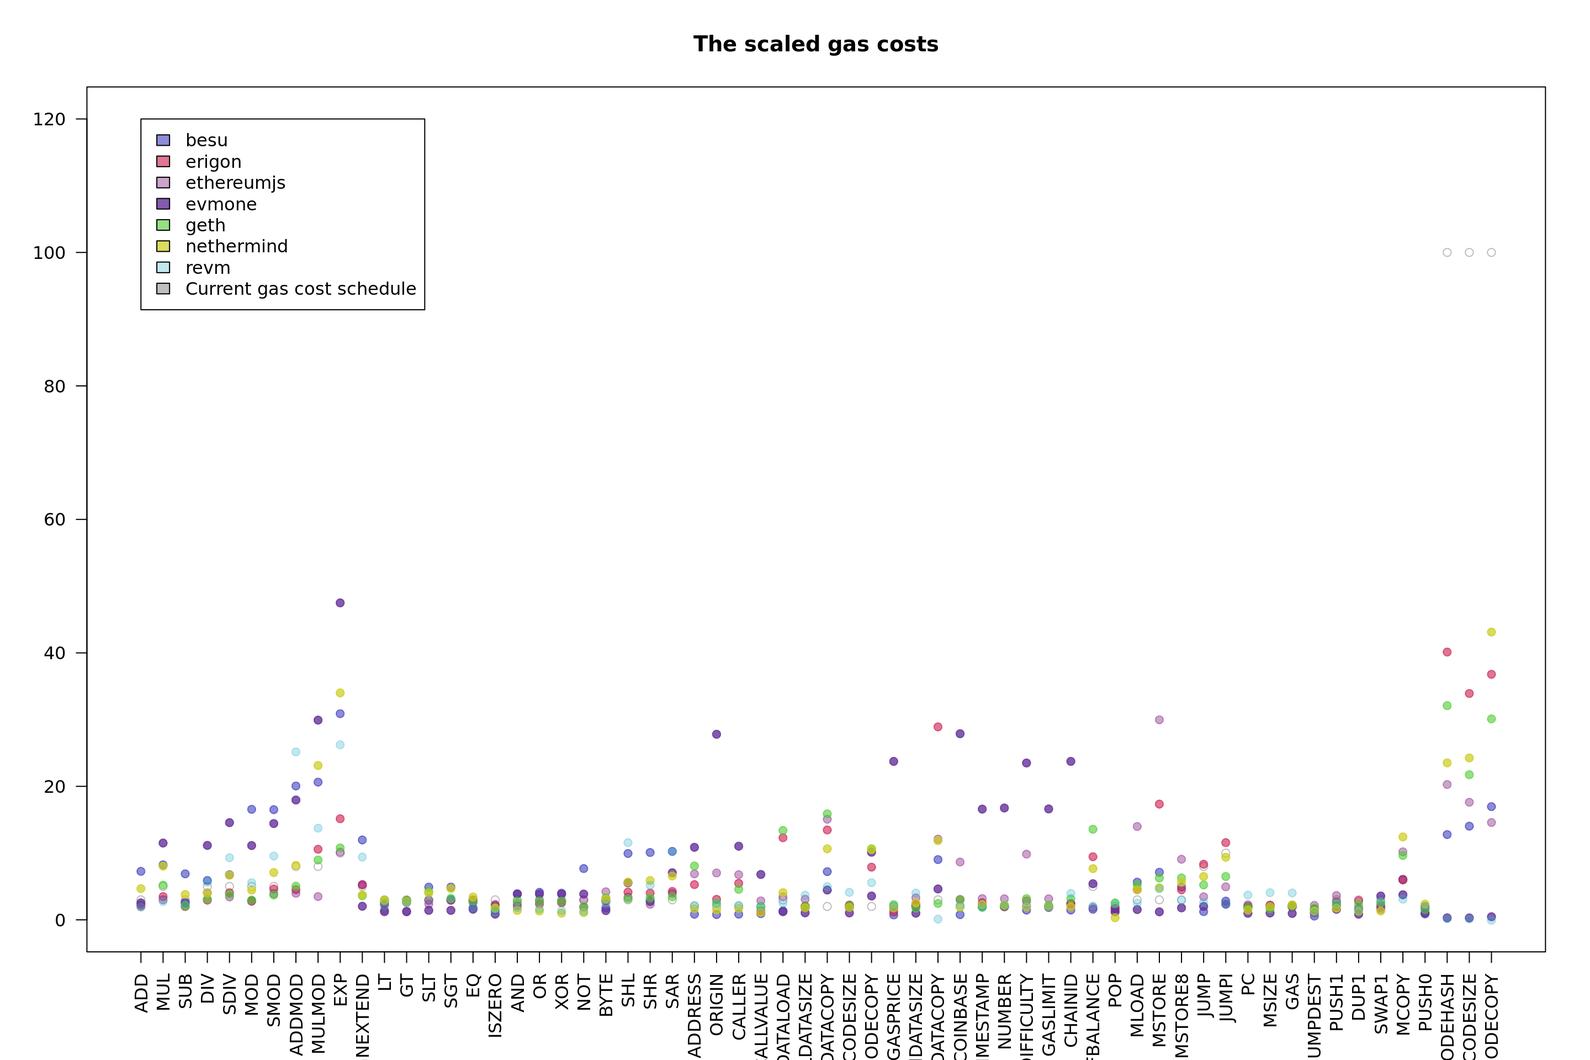
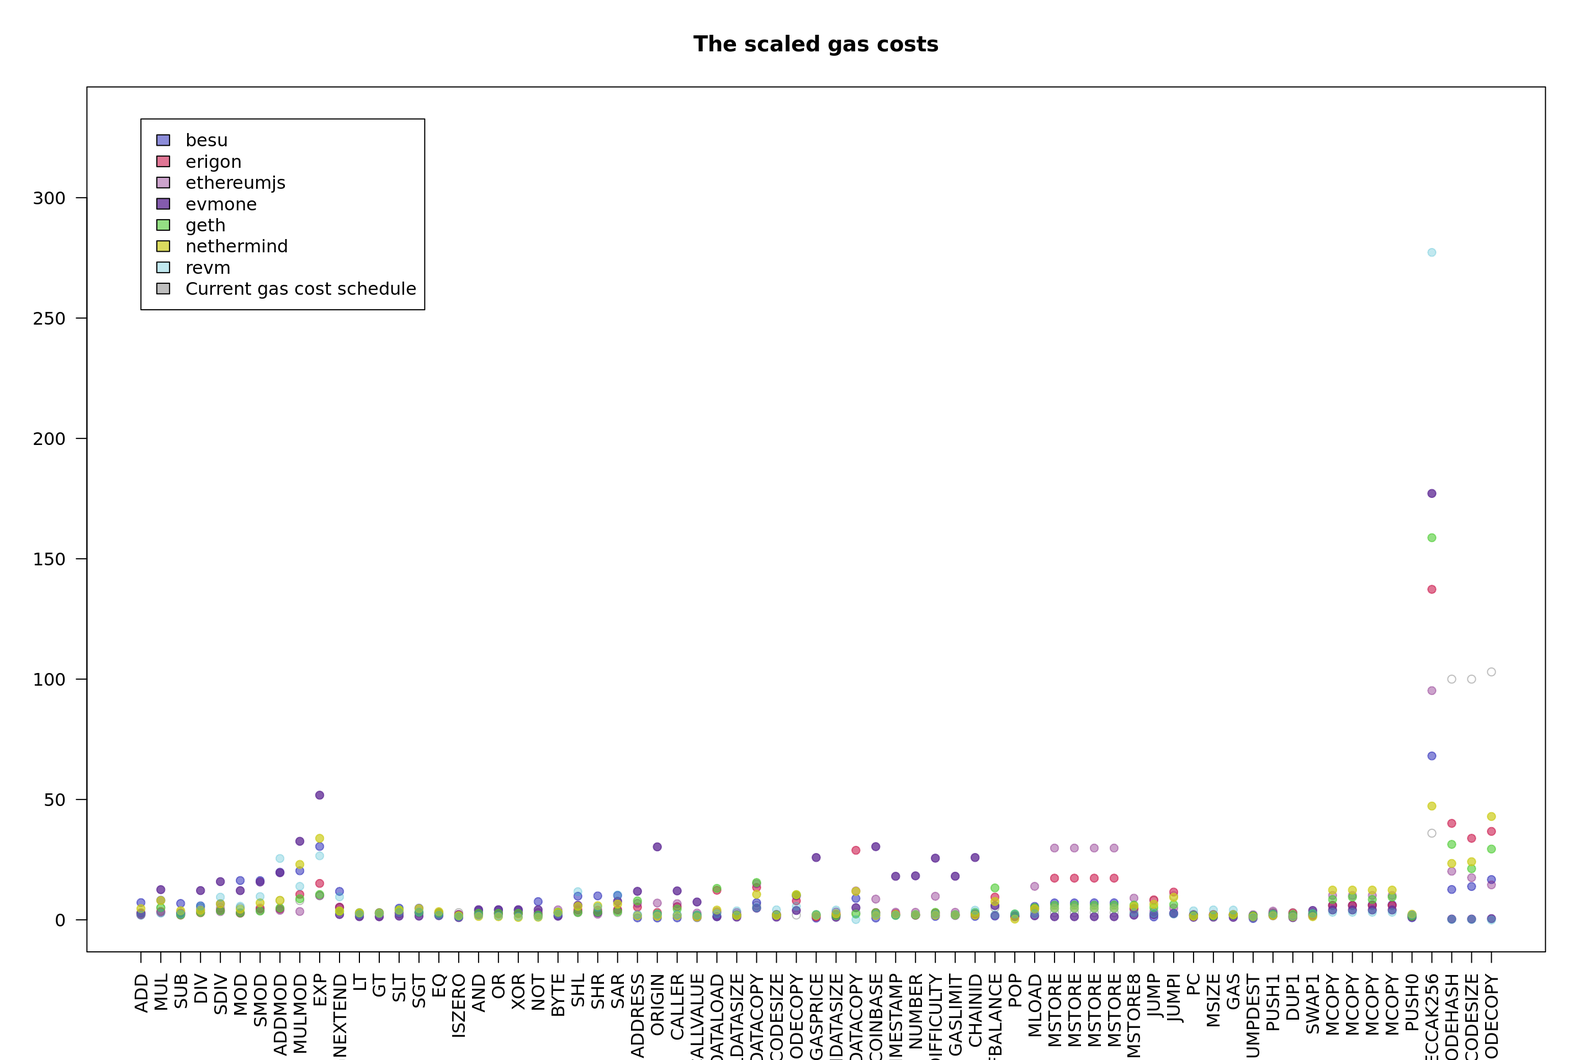
Update text

Changed region(s): [[0.0938, 0.9062, 0.9375, 1.0], [0.0625, 0.7188, 0.9375, 0.875], [0.1875, 0.7188, 0.2188, 0.75]]

diff --git a/docs/gas-schedule-proposal.md b/docs/gas-schedule-proposal.md
@@ -14,55 +14,56 @@ The idea behind the conservative gas schedule is to limit changes only to the mo
 
 The opcodes that are proposed to be changed are those that have been identified as mispriced in the research. 
 
-| OPCODE | Name | Current Gas | Proposed Gas |
+| Opcode | Name | Current Gas | Proposed Gas |
 | ------------- | ------------- | ------------- | ------------- |
-| 08 | MULMOD | 8 | 14 |
-| 0A | EXP | static_gas = 10 <br/> dynamic_gas = 50 * exponent_byte_size | static_gas = 10 <br/> dynamic_gas = 20 * exponent_byte_size |
-| 20 | KECCAK256 | static_gas = 30 <br/> dynamic_gas = 6 * minimum_word_size + memory_expansion_cost | static_gas = 50 <br/> dynamic_gas = 30 * minimum_word_size + memory_expansion_cost |
-| 30 | ADDRESS | 2 | 5 |
-| 33 | CALLER | 2 | 5 |
-| 37 | CALLDATACOPY | static_gas = 3 <br/> dynamic_gas = 3 * minimum_word_size + memory_expansion_cost | static_gas = 5 <br/> dynamic_gas = 3 * minimum_word_size + memory_expansion_cost |
-| 3E | RETURNDATACOPY | static_gas = 3 <br/> dynamic_gas = 3 * minimum_word_size + memory_expansion_cost | static_gas = 5 <br/> dynamic_gas = 3 * minimum_word_size + memory_expansion_cost |
-| 47 | SELFBALANCE | 5 | 3 |
-| 52 | MSTORE | static_gas = 3 <br/> dynamic_gas = memory_expansion_cost | static_gas = 5 <br/> dynamic_gas = memory_expansion_cost |
-| 53 | MSTORE8 | static_gas = 3 <br/> dynamic_gas = memory_expansion_cost | static_gas = 5 <br/> dynamic_gas = memory_expansion_cost |
-|  | POP | 2 | 1 |
-|  | PUSHx | 3 | 2 |
-|  | DUPx | 3 | 2 |
-|  | SWAPx | 3 | 2 |
+| 08 | MULMOD * | 8 | 14 |
+| 0A | EXP | 10 + 50 * exponent_byte_size | 10 + 20 * exponent_byte_size |
+| 20 | KECCAK256 * | 30 + 6 * minimum_word_size + memory_expansion_cost | 50 + 30 * minimum_word_size + memory_expansion_cost |
+| 30 | ADDRESS * | 2 | 5 |
+| 33 | CALLER * | 2 | 5 |
+| 37 | CALLDATACOPY * | 3 + 3 * minimum_word_size + memory_expansion_cost | 5 + 3 * minimum_word_size + memory_expansion_cost |
+| 39 | CODECOPY * | 3 + 3 * minimum_word_size + memory_expansion_cost | 5 + 3 * minimum_word_size + memory_expansion_cost |
+| 3E | RETURNDATACOPY * | 3 + 3 * minimum_word_size + memory_expansion_cost | 5 + 3 * minimum_word_size + memory_expansion_cost |
+| 52 | MSTORE * | 3 + memory_expansion_cost | 5 + memory_expansion_cost |
+| 53 | MSTORE8 * | 3 + memory_expansion_cost | 5 + memory_expansion_cost |
+| 60 - 7F | PUSHx | 3 | 2 |
+| 80 - 8F | DUPx | 3 | 2 |
+| 90 - 9F | SWAPx | 3 | 2 |
 | 56 | JUMP | 8 | 3 |
 | 57 | JUMPI | 10 | 5 |
 | 5C | TLOAD | 100 | 20 |
 | 5D | TSTORE | 100 | 50 |
-| A0 | LOG0 | static_gas = 375 <br/> dynamic_gas = 375 * topic_count + 8 * size + memory_expansion_cost | static_gas = 35 <br/> dynamic_gas = 35 * topic_count + 8 * size + memory_expansion_cost |
-| A1 | LOG1 | static_gas = 375 <br/> dynamic_gas = 375 * topic_count + 8 * size + memory_expansion_cost | static_gas = 35 <br/> dynamic_gas = 35 * topic_count + 8 * size + memory_expansion_cost |
-| A2 | LOG2 | static_gas = 375 <br/> dynamic_gas = 375 * topic_count + 8 * size + memory_expansion_cost | static_gas = 35 <br/> dynamic_gas = 35 * topic_count + 8 * size + memory_expansion_cost |
-| A3 | LOG3 | static_gas = 375 <br/> dynamic_gas = 375 * topic_count + 8 * size + memory_expansion_cost | static_gas = 35 <br/> dynamic_gas = 35 * topic_count + 8 * size + memory_expansion_cost |
-| A4 | LOG4 | static_gas = 375 <br/> dynamic_gas = 375 * topic_count + 8 * size + memory_expansion_cost | static_gas = 35 <br/> dynamic_gas = 35 * topic_count + 8 * size + memory_expansion_cost |
-| F1 | CALL | address_access_cost = 100 (warm address) | address_access_cost = 150 (warm address) |
-| F4 | DELEGATECALL | address_access_cost = 100 (warm address) | address_access_cost = 150 (warm address) |
-| FA | STATICCALL | address_access_cost = 100 (warm address) | address_access_cost = 150 (warm address) |
-| F3 | RETURN | static_gas = 0 <br/> dynamic_gas = memory_expansion_cost | static_gas = 5 <br/>dynamic_gas = memory_expansion_cost |
-| FD | REVERT | static_gas = 0 <br/> dynamic_gas = memory_expansion_cost | static_gas = 8 <br/>dynamic_gas = memory_expansion_cost |
+| A0 | LOG0 | 375 + 375 * topic_count + 8 * data_size + memory_expansion_cost | 35 + 35 * topic_count + 8 * data_size + memory_expansion_cost |
+| A1 | LOG1 | 375 + 375 * topic_count + 8 * data_size + memory_expansion_cost | 35 + 35 * topic_count + 8 * data_size + memory_expansion_cost |
+| A2 | LOG2 | 375 + 375 * topic_count + 8 * data_size + memory_expansion_cost | 35 + 35 * topic_count + 8 * data_size + memory_expansion_cost |
+| A3 | LOG3 | 375 + 375 * topic_count + 8 * data_size + memory_expansion_cost | 35 + 35 * topic_count + 8 * data_size + memory_expansion_cost |
+| A4 | LOG4 | 375 + 375 * topic_count + 8 * data_size + memory_expansion_cost | 35 + 35 * topic_count + 8 * data_size + memory_expansion_cost |
+| F1 | CALL * | address_access_cost: 100 (warm) / 2600 (cold) | address_access_cost: 150 (warm) / 2600 (cold) |
+| F4 | DELEGATECALL * | address_access_cost: 100 (warm) / 2600 (cold) | address_access_cost: 150 (warm) / 2600 (cold) |
+| FA | STATICCALL * | address_access_cost: 100 (warm) / 2600 (cold) | address_access_cost: 150 (warm) / 2600 (cold) |
+| F3 | RETURN * | 0 + memory_expansion_cost | 5 + memory_expansion_cost |
+| FD | REVERT * | 0 + memory_expansion_cost | 8 + memory_expansion_cost |
 
 | Precompile | Name | Current Gas | Proposed Gas |
 | ------------- | ------------- | ------------- | ------------- |
-| 01 | ECRECOVER | 3000 | 12000 |
-| 06 | ECADD | 150 | 3000 |
-| 07 | ECMUL | 6000 | 10000 |
-| 0A | POINTEVAL | 50000 | 300000 |
+| 01 | ECRECOVER * | 3000 | 12000 |
+| 06 | ECADD * | 150 | 3000 |
+| 07 | ECMUL * | 6000 | 10000 |
+| 0A | POINTEVAL * | 50000 | 300000 |
 
-In above calculations the `memory_expansion_cost` is calculated as `3 * memory_word_count`. The `topic_count` is the number of topics in the log operation and `size` is the size of the data in the log operation.
+> The * indicates increased gas cost for the given opcode of precompile. This should be implemented with caution as it might break backwards compatibility.
+
+The current cost for the `memory_expansion_cost` is calculated as `quadratical_cost + 3 * memory_word_count`. We propose to change it to `quadratical_cost + 2 * memory_word_count` as the results indicate that memory expansion costs are quite low.
 
 ## Radical Gas Schedule Proposal
 The idea behind the radical gas schedule proposal is a complete overhaul of the current gas schedule. Rather than just changing the most mispriced opcodes, we propose to change all opcodes to better reflect the computational cost of the operations.
 
 Let's run through the consequences of the radical gas schedule proposal. The cheapest operations are priced at 1 gas and we gradually increase the gas cost for more complex operations. As a result most arithmetic and basic opcodes will be much cheaper, i.e. valued at 1 rather than 3 or 5. Then all other operations will be adjusted accordingly, usually by lowering the gas cost. This matches some of the [sentiments](https://x.com/VitalikButerin/status/1849338545498210652) in the community.
 
-> Client Implementation notes:
-> In most implementations gas cost is hardcoded. Such radical changes to the gas schedule would require a configurable gas schedule in EVM clients. This would allow clients to easily switch between different gas schedules, but also different chains.
+> Client Implementation notes: <br/>
+> Such radical change to the gas schedule would require a fully configurable gas schedule in EVM clients. This would allow clients to easily switch between different gas schedules, but also different chains.
 
-In this scenario the storage cost remains at the same level as this refects the network cost of storing data. Thus the radical gas schedule proposal expands the gap between the cost of storage and computation. This is a good thing as it makes it more expensive to store data than to compute it. Also the memory expansion cost remains the same to increase the security of the network.
+In this scenario the storage cost remains at the same level as this refects the network cost of storing data. Thus the radical gas schedule proposal expands the gap between the cost of storage and computation. This is a good thing as it makes it more expensive to store data than to compute it. The memory expansion cost is lowered, but still keeps its characteristic of being quadratic, thus improving network security.
 
 Pros:
 - The gas cost reflects the computational cost of the operations
@@ -74,102 +75,112 @@ Cons:
 - EVM Clients need to implement configurable gas schedules
 - The radical changes may have unforeseen consequences
 
-| OPCODE | Name | Current Gas | Proposed Gas |
+The radical gas schedule was created by taking the calculated gas costs from the research and rescaling them. The rescale factor is the key to achieve the desired effect. For this purpose we took an average of the basic arthmetic opcodes. In this proposal the rescale factor is `1/4.6 = 0.217391304`.
+
+The tables below contain the additional Rescaled Fractional column. This shows the actual gas cost of the opcode after rescaling. It could be usefull to for futher discussion on the proposed Fractional Gas Costs schedule.
+
+
+| Opcode | Name | Current Gas | Rescaled Fractional | Proposed Gas |
+| ------------- | ------------- | -------------: | -------------: | -------------: |
+| 01 | ADD | 3 | 0.5 | 1 |
+| 02 | MUL | 5 | 1.1 | 1 |
+| 03 | SUB | 3 | 0.6 | 1 |
+| 04 | DIV | 5 | 0.9 | 1 |
+| 05 | SDIV | 5 | 1.4 | 1 |
+| 06 | MOD | 5 | 1.0 | 1 |
+| 07 | SMOD | 5 | 1.5 | 1 |
+| 08 | ADDMOD | 8 | 1.8 | 2 |
+| 09 | MULMOD | 8 | 3.0 | 3 |
+| 0A | EXP | 10 + 50 * exponent_byte_size |  | 2 + 4 * exponent_byte_size |
+| 0B | SIGNEXTEND | 5 | 1.1 | 1 |
+| 10 | LT | 3 | 0.5 | 1 |
+| 11 | GT | 3 | 0.6 | 1 |
+| 12 | SLT | 3 | 0.7 | 1 |
+| 13 | SGT | 3 | 0.7 | 1 |
+| 14 | EQ | 3 | 0.6 | 1 |
+| 15 | ISZERO | 3 | 0.4 | 1 |
+| 16 | AND | 3 | 0.5 | 1 |
+| 17 | OR | 3 | 0.6 | 1 |
+| 18 | XOR | 3 | 0.6 | 1 |
+| 19 | NOT | 3 | 0.4 | 1 |
+| 1A | BYTE | 3 | 0.6 | 1 |
+| 1B | SHL | 3 | 1.2 | 1 |
+| 1C | SHR | 3 | 0.9 | 1 |
+| 1D | SAR | 3 | 1.4 | 1 |
+| 20 | KECCAK256 | 30 + 6 * data_word_size + memory_expansion_cost |  | 10 + 6 * data_word_size + memory_expansion_cost |
+| 30 | ADDRESS | 2 | 1.1 | 1 |
+| 32 | ORIGIN | 2 | 0.5 | 1 |
+| 33 | CALLER | 2 | 1.0 | 1 |
+| 34 | CALLVALUE | 2 | 0.4 | 1 |
+| 35 | CALLDATALOAD | 3 | 0.7 | 1 |
+| 36 | CALLDATASIZE | 2 | 0.4 | 1 |
+| 37 | CALLDATACOPY | 3 + 3 * data_word_size + memory_expansion_cost |  | 1 + 1 * data_word_size + memory_expansion_cost |
+| 38 | CODESIZE | 2 | 0.5 | 1 |
+| 39 | CODECOPY | 3 + 3 * data_word_size + memory_expansion_cost |  | 1 + 1 * data_word_size + memory_expansion_cost |
+| 3A | GASPRICE | 2 | 0.4 | 1 |
+| 3B | EXTCODESIZE | address_access_cost |  | address_access_cost |
+| 3C | EXTCODECOPY | 0 + 3 * data_word_size + memory_expansion_cost + address_access_cost |  | 0 + 1 * data_word_size + memory_expansion_cost + address_access_cost |
+| 3D | RETURNDATASIZE | 2 | 0.5 | 1 |
+| 3E | RETURNDATACOPY | 3 + 3 * data_word_size + memory_expansion_cost |  | 1 + 1 * data_word_size + memory_expansion_cost |
+| 3F | EXTCODEHASH | address_access_cost |  | address_access_cost |
+| 41 | COINBASE | 2 | 0.6 | 1 |
+| 42 | TIMESTAMP | 2 | 0.5 | 1 |
+| 43 | NUMBER | 2 | 0.5 | 1 |
+| 45 | GASLIMIT | 2 | 0.4 | 1 |
+| 46 | CHAINID | 2 | 0.5 | 1 |
+| 47 | SELFBALANCE | 5 | 1.3 | 1 |
+| 50 | POP | 2 | 0.4 | 1 |
+| 51 | MLOAD | 3 | 1.0 | 1 |
+| 52 | MSTORE | 3 + memory_expansion_cost |  | 1 + memory_expansion_cost |
+| 53 | MSTORE8 | 3 + memory_expansion_cost |  | 1 + memory_expansion_cost |
+| 56 | JUMP | 8 | 0.7 | 1 |
+| 57 | JUMPI | 10 | 1.1 | 1 |
+| 58 | PC | 2 | 0.4 | 1 |
+| 59 | MSIZE | 2 | 0.4 | 1 |
+| 5A | GAS | 2 | 0.4 | 1 |
+| 5C | TLOAD | 100 | 4.1 | 4 |
+| 5D | TSTORE | 100 | 10.0 | 10 |
+| 5B | JUMPDEST | 1 | 0.3 | 1 |
+| 5E | MCOPY | 3 + 3 * data_word_size + memory_expansion_cost |  | 1 + 1 * data_word_size + memory_expansion_cost |
+| 5F | PUSH0 | 2 | 0.4 | 1 |
+| 60 - 7F | PUSHx | 3 | 0.5 | 1 |
+| 80 - 8F | DUPx | 3 | 0.3 | 1 |
+| 90 - 9F | SWAPx | 3 | 0.5 | 1 |
+| A0 | LOG0 | 375 + 375 * topic_count + 8 * data_size + memory_expansion_cost |  | 7 + 7 * topic_count + 8 * data_size + memory_expansion_cost |
+| A1 | LOG1 | 375 + 375 * topic_count + 8 * data_size + memory_expansion_cost |  | 7 + 7 * topic_count + 8 * data_size + memory_expansion_cost |
+| A2 | LOG2 | 375 + 375 * topic_count + 8 * data_size + memory_expansion_cost |  | 7 + 7 * topic_count + 8 * data_size + memory_expansion_cost |
+| A3 | LOG3 | 375 + 375 * topic_count + 8 * data_size + memory_expansion_cost |  | 7 + 7 * topic_count + 8 * data_size + memory_expansion_cost |
+| A4 | LOG4 | 375 + 375 * topic_count + 8 * data_size + memory_expansion_cost |  | 7 + 7 * topic_count + 8 * data_size + memory_expansion_cost |
+| F0 | CREATE | 32000 + 2 * data_word_size + memory_expansion_cost + deployment_code_execution_cost + 200 * deployed_code_size |  | 32000 + 1 * data_word_size + memory_expansion_cost + deployment_code_execution_cost + 40 * deployed_code_size |
+| F5 | CREATE2 | 32000 + 2 * data_word_size + 6 * data_word_size + memory_expansion_cost + deployment_code_execution_cost + 200 * deployed_code_size |  | 32000 + 1 * data_word_size + 1 * data_word_size + memory_expansion_cost + deployment_code_execution_cost + 40 * deployed_code_size |
+| F1 | CALL | 0 + memory_expansion_cost + code_execution_cost + address_access_cost + positive_value_cost + value_to_empty_account_cost |  | 0 + memory_expansion_cost + code_execution_cost + address_access_cost + positive_value_cost + value_to_empty_account_cost |
+| FA | STATICCALL | 0 + memory_expansion_cost + code_execution_cost + address_access_cost |  | 0 + memory_expansion_cost + code_execution_cost + address_access_cost |
+| F4 | DELEGATECALL | 0 + memory_expansion_cost + code_execution_cost + address_access_cost |  | 0 + memory_expansion_cost + code_execution_cost + address_access_cost |
+| F3 | RETURN ¹ | 0 + memory_expansion_cost |  | 0 + memory_expansion_cost |
+| FD | REVERT ² | 0 + memory_expansion_cost |  | 0 + memory_expansion_cost |
+
+> ¹ The calculated gas costs for RETURN is `1 + memory_expansion_cost`. To avoid price increase this is kept at the current level and needs to be subsidized by the network. <br/>
+> ² The calculated gas costs for REVERT is `2 + memory_expansion_cost`. To avoid price increase this is kept at the current level and needs to be subsidized by the network.<br/>
+
+| Precompile | Name | Current Gas | Rescaled Fractional | Proposed Gas |
+| ------------- | ------------- | -------------: | -------------: | -------------: |
+| 01 | ECRECOVER ³ | 3000 | 3246.7 | 3000 |
+| 02 | SHA2-256 | 60 + 12 * data_word_size |  | 10 + 4 * data_word_size |
+| 03 | RIPEMD-160 | 600 + 120 * data_word_size |  | 60 + 40 * data_word_size |
+| 04 | IDENTITY | 15 + 3 * data_word_size |  | 15 + 3 * data_word_size |
+| 05 | MODEXP | 0 + max(200, complexity_cost) |  | 0 + max(70, complexity_cost) |
+| 06 | ECADD ³ | 150 | 694.6 | 150 |
+| 07 | ECMUL | 6000 | 2677.7 | 2700 |
+| 08 | ECPAIRING | 45000 + 34000 * sets_count |  | 8000 + 7000 * sets_count |
+| 09 | BLAKE2F | 0 + 1 * rounds_count |  | 0 + 1 * rounds_count |
+| 0A | POINTEVAL | 50000 | 21242.8 | 21000 |
+
+> ³ The proposed gas is subsidized by the network to keep the cost at the current level.
+
+Also, the following elements of the dynamic gas cost have been adjusted:
+
+| Element | Current | Proposed | Notes |
 | ------------- | ------------- | ------------- | ------------- |
-|  | ADD | 3 | 1 |
-|  | MUL | 5 | 1 |
-|  | SUB | 3 | 1 |
-|  | DIV | 5 | 1 |
-|  | SDIV | 5 | 2 |
-|  | MOD | 5 | 1 |
-|  | SMOD | 5 | 2 |
-|  | ADDMOD | 8 | 2 |
-|  | MULMOD | 8 | 4 |
-|  | EXP | static_gas = 10 <br/> dynamic_gas = 50 * exponent_byte_size | static_gas = 3 <br/> dynamic_gas = 5 * exponent_byte_size |
-|  | SIGNEXTEND | 5 | 2 |
-|  | LT | 3 | 1 |
-|  | GT | 3 | 1 |
-|  | SLT | 3 | 1 |
-|  | SGT | 3 | 1 |
-|  | EQ | 3 | 1 |
-|  | ISZERO | 3 | 1 |
-|  | AND | 3 | 1 |
-|  | OR | 3 | 1 |
-|  | XOR | 3 | 1 |
-|  | NOT | 3 | 1 |
-|  | BYTE | 3 | 1 |
-|  | SHL | 3 | 2 |
-|  | SHR | 3 | 1 |
-|  | SAR | 3 | 2 |
-|  | ADDRESS | 2 | 2 |
-|  | ORIGIN | 2 | 1 |
-|  | CALLER | 2 | 1 |
-|  | CALLVALUE | 2 | 1 |
-|  | CALLDATALOAD | 3 | 1 |
-|  | CALLDATASIZE | 2 | 1 |
-|  | CALLDATACOPY | 2 | 3 |
-|  | CODESIZE | 2 | 1 |
-|  | CODECOPY | 2 | 3 |
-|  | GASPRICE | 2 | 1 |
-|  | RETURNDATASIZE | 2 | 1 |
-|  | RETURNDATACOPY | 3 | 3 |
-|  | COINBASE | 2 | 1 |
-|  | TIMESTAMP | 2 | 1 |
-|  | NUMBER | 2 | 1 |
-|  | DIFFICULTY | 2 | 1 |
-|  | GASLIMIT | 2 | 1 |
-|  | CHAINID | 2 | 1 |
-|  | SELFBALANCE | 5 | 1 |
-|  | POP | 2 | 1 |
-|  | MLOAD | 3 | 1 |
-|  | MSTORE | 3 | 2 |
-|  | MSTORE_COLD | 3 | 3 |
-|  | MSTORE8 | 3 | 1 |
-|  | JUMP | 8 | 1 |
-|  | JUMPI | 10 | 1 |
-|  | PC | 2 | 1 |
-|  | MSIZE | 2 | 1 |
-|  | GAS | 2 | 1 |
-|  | JUMPDEST | 1 | 1 |
-|  | PUSHx | 3 | 1 |
-|  | DUPx | 3 | 1 |
-|  | SWAPx | 3 | 1 |
-|  | MCOPY | 6 | 2 |
-|  | MCOPY_COLD | 6 | 2 |
-|  | PUSH0 | 2 | 1 |
-|  | KECCAK256 | static_gas = 30 <br/> dynamic_gas = 6 * minimum_word_size + memory_expansion_cost | static_gas = 30 <br/> dynamic_gas = 6 * minimum_word_size + memory_expansion_cost |
-|  | LOG0 | static_gas = 375 <br/> dynamic_gas = 375 * topic_count + 8 * size + memory_expansion_cost | static_gas = 10 <br/> dynamic_gas = 5 * topic_count + 3 * size + memory_expansion_cost |
-|  | LOG1 | static_gas = 375 <br/> dynamic_gas = 375 * topic_count + 8 * size + memory_expansion_cost | static_gas = 10 <br/> dynamic_gas = 5 * topic_count + 3 * size + memory_expansion_cost |
-|  | LOG2 | static_gas = 375 <br/> dynamic_gas = 375 * topic_count + 8 * size + memory_expansion_cost | static_gas = 10 <br/> dynamic_gas = 5 * topic_count + 3 * size + memory_expansion_cost |
-|  | LOG3 | static_gas = 375 <br/> dynamic_gas = 375 * topic_count + 8 * size + memory_expansion_cost | static_gas = 10 <br/> dynamic_gas = 5 * topic_count + 3 * size + memory_expansion_cost |
-|  | LOG4 | static_gas = 375 <br/> dynamic_gas = 375 * topic_count + 8 * size + memory_expansion_cost | static_gas = 10 <br/> dynamic_gas = 5 * topic_count + 3 * size + memory_expansion_cost |
-|  | EXTCODEHASH | 100 | 6 |
-|  | EXTCODESIZE | 100 | 5 |
-|  | EXTCODECOPY | 100 | 5 |
-|  | CREATE | 32000 | 182 |
-|  | CALL | address_access_cost = 100 (warm address) | address_access_cost = 50 (warm address) |
-|  | STATICCALL | address_access_cost = 100 (warm address) | address_access_cost = 50 (warm address) |
-|  | DELEGATECALL | address_access_cost = 100 (warm address) | address_access_cost = 50 (warm address) |
-|  | RETURN | static_gas = 0 <br/> dynamic_gas = memory_expansion_cost | static_gas = 2 <br/> dynamic_gas = memory_expansion_cost |
-|  | REVERT | static_gas = 0 <br/> dynamic_gas = memory_expansion_cost | static_gas = 3 <br/> dynamic_gas = memory_expansion_cost |
-|  | TLOAD | 100 | 5 |
-|  | TSTORE | 100 | 7 |
-
-| Precompile | Name | Current Gas | Proposed Gas |
-| ------------- | ------------- | ------------- | ------------- |
-|  | ECRECOVER | 3000 | 4382 |
-|  | SHA2-256 | 72 | 40 |
-|  | RIPEMD-160 | 720 | 71 |
-|  | IDENTITY | 18 | 33 |
-|  | MODEXP | 200 | 110 |
-|  | ECADD | 150 | 937 |
-|  | ECMUL | 6000 | 3060 |
-|  | ECPAIRING79000 | 79000 | 21362 |
-|  | ECPAIRING113000 | 113000 | 31213 |
-|  | ECPAIRING181000 | 181000 | 50909 |
-|  | ECPAIRING317000 | 317000 | 89881 |
-|  | BLAKE2F | 12 | 51 |
-|  | POINTEVAL | 50000 | 101109 |
-
-In above calculations the `memory_expansion_cost` is calculated as `1 * memory_word_count`. The `topic_count` is the number of topics in the log operation and `size` is the size of the data in the log operation. The rescale factor is 0.5/1.704212172, based on the least expensive, non-trivial opcode `ISZERO`.
-
+| memory_expansion_cost | (memory_size_word ** 2) / 512 + (3 * memory_size_word) | (memory_size_word ** 2) / 512  | This means that the first 22 words of memory are free. Then the cost grows quadratically. |
+| address_access_cost | 100 (warm) \| 2600 (cold) | 5 (warm) \| 2600 (cold) |  |
+| MODEXP complexity_cost | multiplication_complexity * calculate_iteration_count / 3 |  multiplication_complexity * calculate_iteration_count / 30 | This is optional, due to the relatively low popularity of the MODEXP precompile. |

diff --git a/docs/report_stage_iv.md b/docs/report_stage_iv.md
@@ -12,12 +12,12 @@ This project continues the previous stages of the Gas Cost Estimator. Please vis
 ### EVM Implementaions
 The following EVM implementations have been included in the research:
 - [EvmOne](https://github.com/JacekGlen/evmone), version 0.13.0, commit [492e513](https://github.com/JacekGlen/evmone/commit/492e513a7d1cd905c6c45cf17d830fc8dc13288b)
-- [Go Ethereum](https://github.com/ethereum/go-ethereum), version  Rayingri (v1.14.8)
+- [Go Ethereum](https://github.com/ethereum/go-ethereum), version  Rayingri (v1.14.12)
 , commit [a9523b6](https://github.com/ethereum/go-ethereum/commit/a9523b6428238a762e1a1e55e46ead47630c3a23)
-- [Erigon](https://github.com/erigontech/erigon), version 2.60.6, commit [d24e5d4](https://github.com/erigontech/erigon/commit/d24e5d45755d7b23075c507ad9216e1d60ad03de)
-- [EthereumJS](https://github.com/imapp-pl/ethereumjs-monorepo), version 8.1.0, commit [db8c0db](https://github.com/imapp-pl/ethereumjs-monorepo/commit/db8c0dbe76b366edae7b609960bd99ff00e10cf7)
-- [Nethermind](https://github.com/imapp-pl/nethermind), version 1.28.0, commit [e65c1cd](https://github.com/imapp-pl/nethermind/commit/e65c1cd59d858e3add8203d1bc21ec1c1f38de5b)
-- [Revm](https://github.com/imapp-pl/revm), version 13.0.0, commit [d82c762](https://github.com/imapp-pl/revm/commit/d82c7621d7256d8067e97845411c68a3e1d6ef57)
+- [Erigon](https://github.com/erigontech/erigon), version 2.60.10, commit [d24e5d4](https://github.com/erigontech/erigon/commit/d24e5d45755d7b23075c507ad9216e1d60ad03de)
+- [EthereumJS](https://github.com/imapp-pl/ethereumjs-monorepo), version 8.1.1, commit [db8c0db](https://github.com/imapp-pl/ethereumjs-monorepo/commit/db8c0dbe76b366edae7b609960bd99ff00e10cf7)
+- [Nethermind](https://github.com/imapp-pl/nethermind), version 1.29.1, commit [e65c1cd](https://github.com/imapp-pl/nethermind/commit/e65c1cd59d858e3add8203d1bc21ec1c1f38de5b)
+- [Revm](https://github.com/imapp-pl/revm), version 18.0.0, commit [d82c762](https://github.com/imapp-pl/revm/commit/d82c7621d7256d8067e97845411c68a3e1d6ef57)
 - [Besu](https://github.com/lukasz-glen/besu), version 24.10.0, commit [d061dfa](https://github.com/lukasz-glen/besu/commit/d061dfa0d574fe2d4b4be4b0e61b8d11ce1501ee)
 
 ### Measured OPCODEs and precompiles
@@ -90,6 +90,7 @@ Revm is developed in Rust. The existing `revme` tool did not satisfy our require
 
 ### Besu
 Besu is developed in Java.
+> TODO: LG provide benchmarking tool used for Java
 
 ## Measurement Analysis
 
@@ -109,6 +110,10 @@ The full results of the measurements are available in the [stage4](../src/stage4
 **Figure: All Clients stack OPCODEs comparison**
 
 <img src="./report_stage_iv_assets/all_clients_stack.png" width="700"/>&nbsp;
+
+**Figure: All Clients precompiles comparison**
+
+<img src="./report_stage_iv_assets/all_clients_precompile.png" width="700"/>&nbsp;
 
 ### OPCODEs Details
 

diff --git a/docs/diy.md b/docs/diy.md
@@ -109,8 +109,10 @@ For your convenience, we have provided scripts that generate the reports automat
 First, build the Docker image:
 
 ```shell
-docker build . -f Dockerfile.reports -t imapp-pl/gas-cost-estimator/reports:4.0
+docker build ./src/analysis -f Dockerfile.reports -t imapp-pl/gas-cost-estimator/reports:4.0
 ```
+
+> TODO: LG provide correct scripts
 
 Then you can generate reports:
 ```shell
